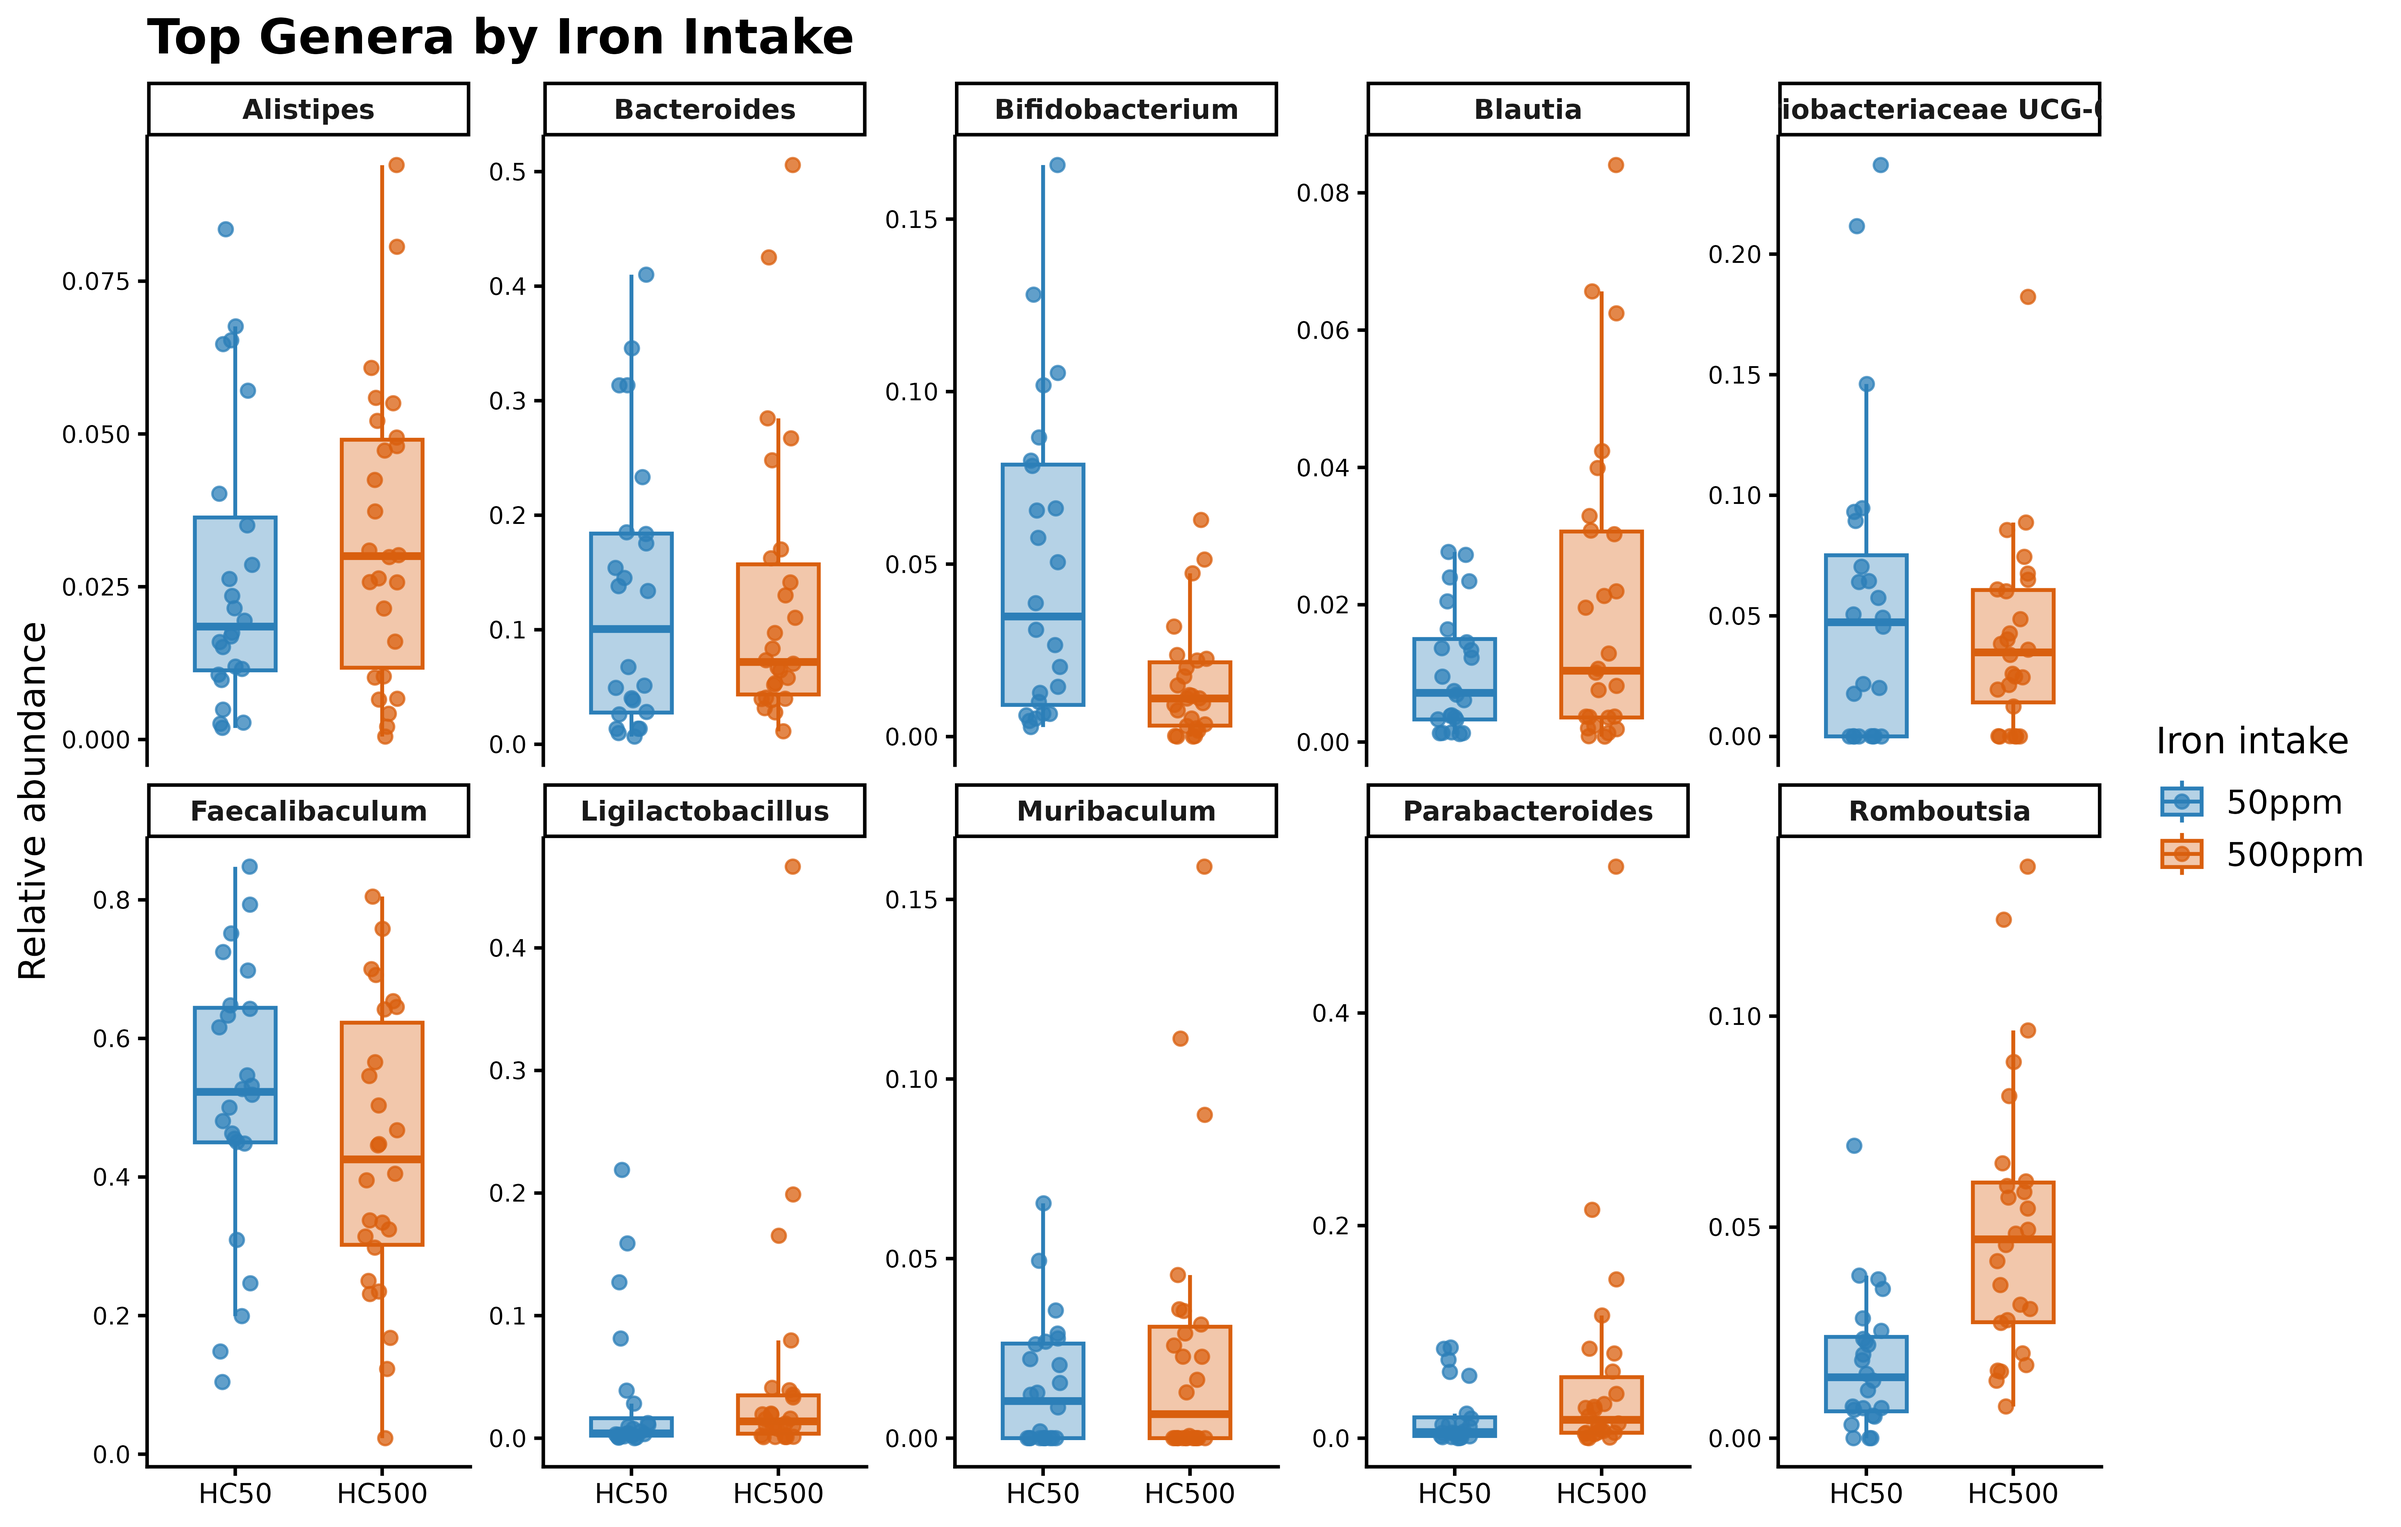
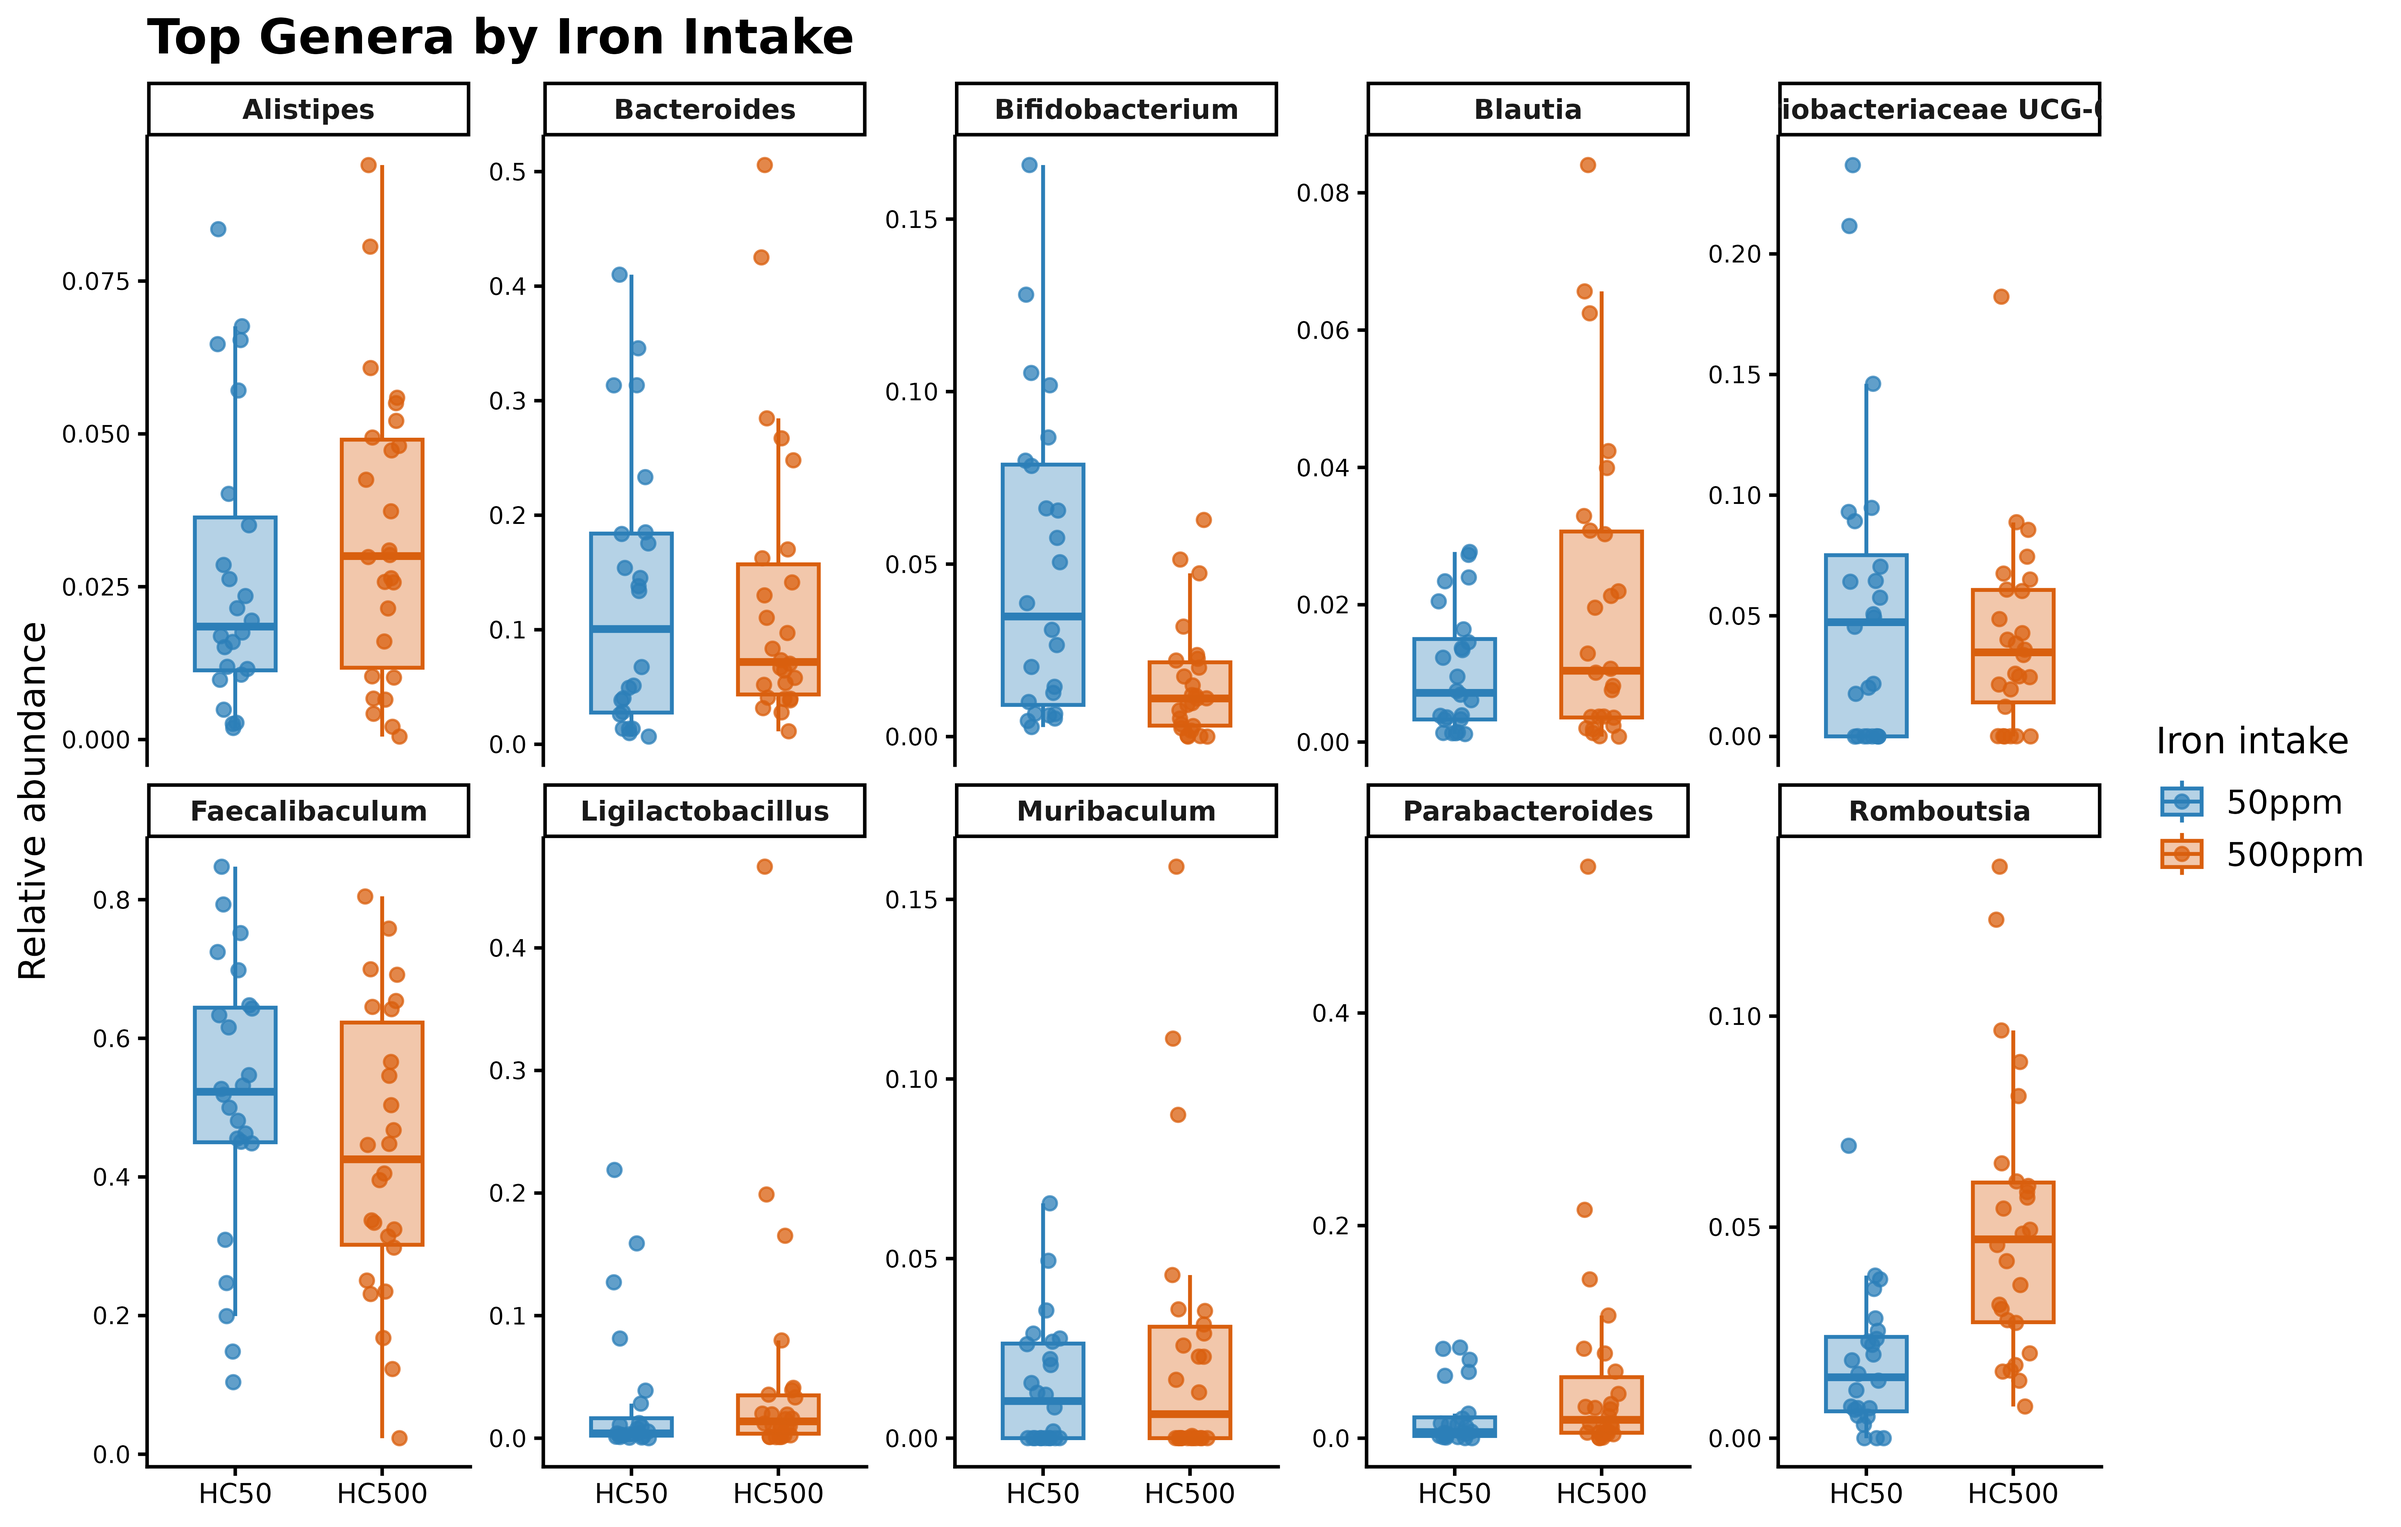
Updated figure README and top10ASV analysis

diff --git a/Figures/README_figures.md b/Figures/README_figures.md
@@ -1,0 +1,65 @@
+# BIOMI6300_IronMicrobiotaProject
+16S analysis project for BIOMI6300
+ 
+# Folder Purpose
+This directory contains all figures generated during the bioinformatics workflow for the Iron and Gut Microbiota Project. Figures were exported from RMarkdown and organized by analysis steps to improve consistency.
+
+# Structure of the figure folders:
+```text
+Figures/
+│── 00_QC/
+│   ├── preQC_aggregate_quality_profiles.png
+│   │   # Aggregate forward/reverse read quality before trimming and filtering.
+│   ├── postQC_aggregate_quality_profiles.png
+│   │   # Aggregate read quality after trimming/filtering.
+│   └── PostQC_check.png
+│       # Post-filter QC check confirming filtered reads are suitable for ASV inference.
+│
+│── 02_AssignASVs/
+│   ├── error reads-1.png
+│   │   # DADA2 learned error-rate model for sequencing error estimation.
+│   ├── seqlength_per_step.png
+│   │   # Sequence/read retention or length changes across ASV-processing steps.
+│   ├── plot_ASVLength_raw.png
+│   │   # ASV/sequence length distribution before trimming or chimera removal.
+│   ├── plot_ASVLength_trimmed.png
+│   │   # ASV length distribution after trimming/filtering.
+│   ├── plot_ASVLength_NoChimeras .png
+│   │   # ASV length distribution after chimera removal.
+│   └── depth_richeness.png
+│       # Relationship between sequencing depth and observed richness.
+│
+│── 03_Preprocessing/
+│   └── read_depth.png
+│       # Sample sequencing depth distribution used to guide preprocessing/filtering.
+│
+│── 04_Biodiversity/
+│   ├── iNEXT_rarefaction_curve.png
+│   │   # Rarefaction/extrapolation curve showing sampling completeness.
+│   ├── iNEXT_manual_rarefaction.png
+│   │   # Manual rarefaction visualization for diversity comparison.
+│   ├── Richeness.png
+│   │   # Observed richness comparison across samples/groups.
+│   └── Alpha_diversity.png
+│       # Alpha diversity summary, likely including Hill/Shannon/Simpson metrics.
+│
+│── 05_Ordination/
+│   ├── Seq_depth.png
+│   │   # Sequencing depth check before ordination analysis.
+│   ├── scaled_seq.png
+│   │   # Scaled/normalized sequencing-depth or abundance diagnostic.
+│   └── Bray_curtis_plot.png
+│       # Bray-Curtis PCoA ordination showing beta-diversity patterns.
+│
+│── 06_Microbial abundance/
+│   ├── top_phyla.png
+│   │   # Most abundant phyla across the dataset.
+│   ├── top_genera.png
+│   │   # Most abundant genera across the dataset.
+│   ├── phyla_relative.png
+│   │   # Phylum-level relative abundance composition.
+│   ├── genera_relative.png
+│   │   # Genus-level relative abundance composition.
+│   └── diff_abun_genera.png
+│       # Differentially abundant genera across comparison groups.
+```
